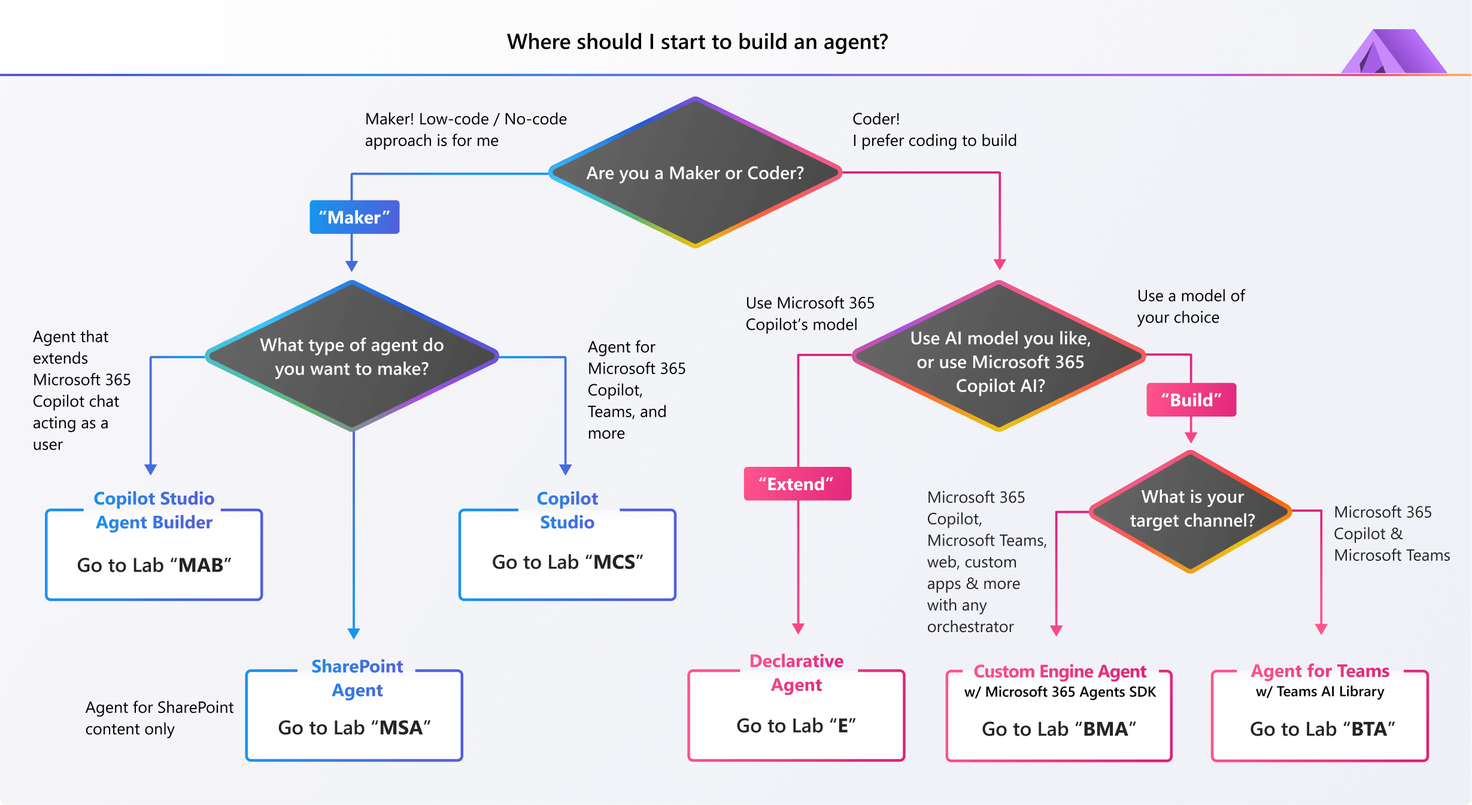
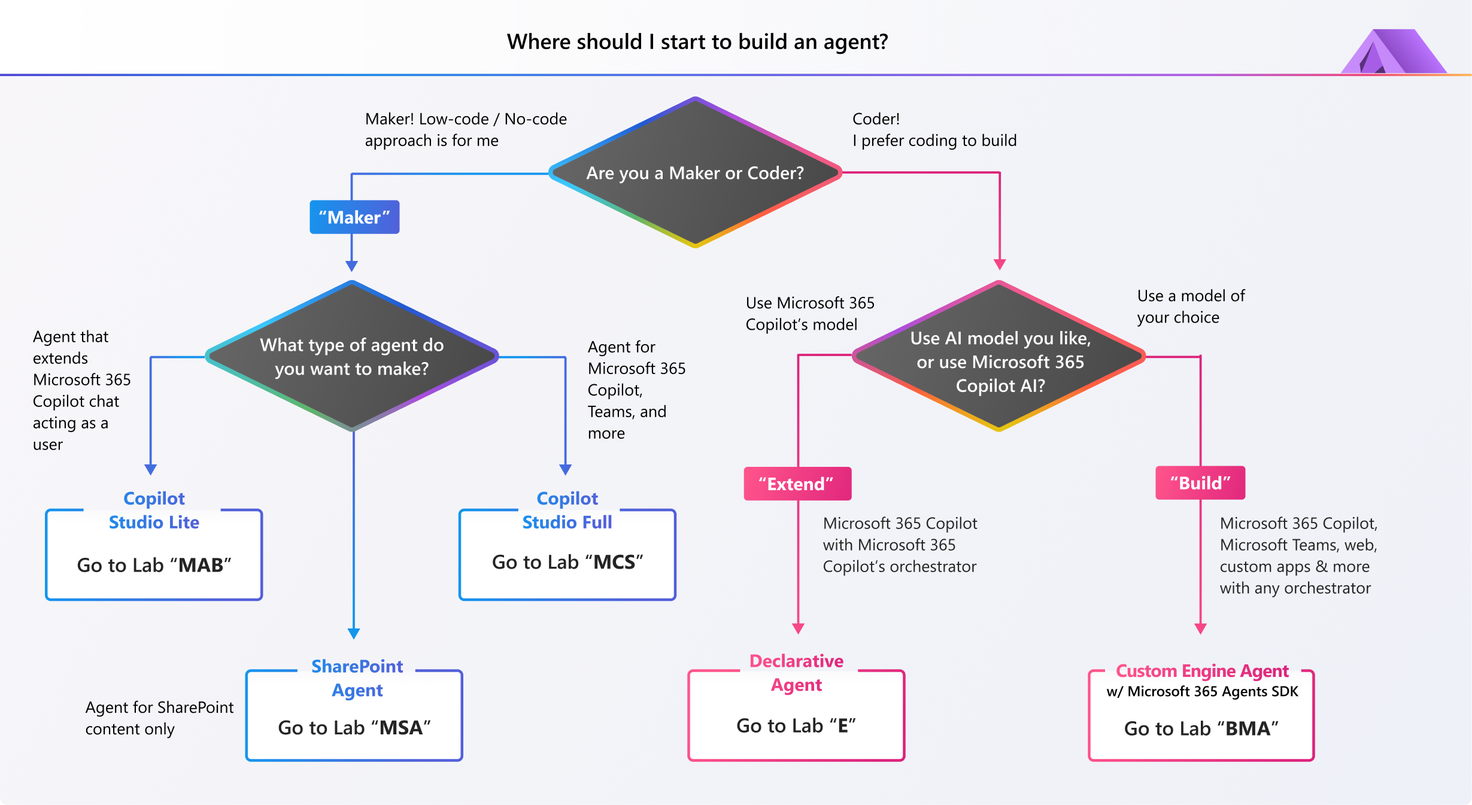
Removed BTA and updated name of Copilot Studio Lite

diff --git a/docs/pages/make/agent-builder/01-first-agent.md b/docs/pages/make/agent-builder/01-first-agent.md
@@ -2,12 +2,12 @@
 
 ---8<--- "mab-labs-prelude.md"
 
-In this lab, you'll create a simple declarative agent using Copilot Studio agent builder. Your agent is designed to help users to maintain and improve a home garden. The knowledge base of the agent is based on a set of documents stored in SharePoint Online and on the public web content. The agent can also engage the user in a nice game to guess the name of plants or flowers based on a set of clues.
+In this lab, you'll create a simple declarative agent using Copilot Studio Lite. Your agent is designed to help users to maintain and improve a home garden. The knowledge base of the agent is based on a set of documents stored in SharePoint Online and on the public web content. The agent can also engage the user in a nice game to guess the name of plants or flowers based on a set of clues.
 
 In this lab you will learn:
 
 - What is a declarative agent for Microsoft 365 Copilot
-- Make a declarative agent using Copilot Studio agent builder
+- Make a declarative agent using Copilot Studio Lite
 - Customise the agent to create a game using specific instructions 
 - Configure the agent to rely on a set of documents stored in SharePoint Online
 - Enable the agent to generate images
@@ -21,7 +21,7 @@ They function as subject matter experts in a specific area or business need, all
 
 Welcome on board to making your own declarative agent ☺! Let's dive in and make your Copilot work magic!
 
-In this lab you will start out building a declarative agent using Copilot Studio agent builder and providing a sample set of instructions. This is to help you get started with something. 
+In this lab you will start out building a declarative agent using Copilot Studio Lite and providing a sample set of instructions. This is to help you get started with something. 
 
 Next, you will modify your agent to be focused on a guess the plant or flower name game. 
 
@@ -33,22 +33,22 @@ Lastly you will share the agent with other people in your organization.
 
 ## Exercise 1: Creating the Declarative agent 
 
-Let's get started! 💪🏼 Let's make the agent from scratch using Copilot Studio agent builder.
+Let's get started! 💪🏼 Let's make the agent from scratch using Copilot Studio Lite.
 
 ### Step 1: Describe your agent
 
-To create a declarative agent with Copilot Studio agent builder, open the [Microsoft 365 Copilot chat home page](https://www.microsoft365.com/copilot){target=_blank} and select **Create an agent** in the right side panel, where there is the list of available agents, like illustrated in the following picture.
+To create a declarative agent with Copilot Studio Lite, open the [Microsoft 365 Copilot chat home page](https://www.microsoft365.com/copilot){target=_blank} and select **Create an agent** in the right side panel, where there is the list of available agents, like illustrated in the following picture.
 
 ![Microsoft 365 Copilot Chat with the 'Create an agent' command highlighted.](../../../assets/images/make/agent-builder-01/create-agent-01.png)
 
-The Copilot Studio agent builder pops up and you can start defining the custom agent. You can choose a template to start from, or you can simply *describe* the agent by providing a description in natural language. You can also choose to manually configure the agent, selecting the **Configure** option, but you will get there later. Let's provide the following initial description:
+The Copilot Studio Lite pops up and you can start defining the custom agent. You can choose a template to start from, or you can simply *describe* the agent by providing a description in natural language. You can also choose to manually configure the agent, selecting the **Configure** option, but you will get there later. Let's provide the following initial description:
 
 ```txt
 You are an expert gardener and you help users to maintain and improve their home garden
 providing detailed instructions and advice about the best practices for home gardening.
 ```
 
-![The user experience of the Copilot Studio agent builder. On the lower left side there is a textbox that you can use to provide instructions to the agent builder, while on the right side there is a preview of the agent.](../../../assets/images/make/agent-builder-01/create-agent-02.png)
+![The user experience of the Copilot Studio Lite. On the lower left side there is a textbox that you can use to provide instructions to the agent builder, while on the right side there is a preview of the agent.](../../../assets/images/make/agent-builder-01/create-agent-02.png)
 
 Once you have provided the instructions, the agent builder will ask you about the name for the new agent. Provide the name: *Gardener*. While you interact with the agent builder, on the right side of the dialog you can see there is a preview of the agent itself, including some suggested conversation starters. If the agent builder asks you about refining instructions further, provide the following sentence.
 
@@ -56,7 +56,7 @@ Once you have provided the instructions, the agent builder will ask you about th
 Suggest ways to keep plants and flowers shining and gorgeous
 ```
 
-![The user experience of the Copilot Studio agent builder. On the lower left side there is the interaction with the agent builder, while on the right side there is a preview of the agent.](../../../assets/images/make/agent-builder-01/create-agent-03.png)
+![The user experience of the Copilot Studio Lite. On the lower left side there is the interaction with the agent builder, while on the right side there is a preview of the agent.](../../../assets/images/make/agent-builder-01/create-agent-03.png)
 
 Keep on interacting with the agent builder until it does have all the information needed to create the agent. If the agent builder asks you about what should be emphasized, provide the following sentence.
 
@@ -72,9 +72,9 @@ Use a professional, yet friendly, tone.
 
 Lastly, say that you don't have any further refinements and select the **Create** button in the upper right corner of the screen. 
 
-![The user experience of the Copilot Studio agent builder with the 'Create' button highlighted.](../../../assets/images/make/agent-builder-01/create-agent-04.png)
+![The user experience of the Copilot Studio Lite with the 'Create' button highlighted.](../../../assets/images/make/agent-builder-01/create-agent-04.png)
 
-The Copilot Studio agent builder will create a new agent for you, based on the provided instructions. 
+The Copilot Studio Lite will create a new agent for you, based on the provided instructions. 
 
 <cc-end-step lab="mab1" exercise="1" step="1" />
 
@@ -86,7 +86,7 @@ Once the agent is ready, you will see a popup dialog with a link to the agent an
 
 Select the **Go to agent** button. You will be brought to the actual user experience of the new agent that you've just made.
 
-![The user experience of the 'Gardener' agent that you have just created. There is the name of the agent at the top of the screen, followed by a set of conversation starters generated by the Copilot Studio agent builder, and then the textbox to provide a new prompt to the agent.](../../../assets/images/make/agent-builder-01/create-agent-06.png)
+![The user experience of the 'Gardener' agent that you have just created. There is the name of the agent at the top of the screen, followed by a set of conversation starters generated by the Copilot Studio Lite, and then the textbox to provide a new prompt to the agent.](../../../assets/images/make/agent-builder-01/create-agent-06.png)
 
 To start interacting with the agent, click on the first suggested prompt and observe the response from the agent. Your agent is now ready. Congrats!
 
@@ -99,13 +99,13 @@ To start interacting with the agent, click on the first suggested prompt and obs
 It is now time to slightly customize the agent. You are going to add a custom icon and define the rules of the game to guess plants or flowers names.
 
 Start over with a **New chat** selecting the corresponding button in the upper right corner of the Microsoft 365 Copilot Chat user interface. Select the **Create an agent** command in the right side of the screen, like you did before, while making your first agent.
-The same dialog you used before to make your first agent will show up. This time, select the name of the agent **My Copilot Agent** dropdown just beside the **Copilot Studio** logo in the upper left side of the dialog. From there, select **View all agents** to see the whole list of agents that you created with Copilot Studio agent builder.
+The same dialog you used before to make your first agent will show up. This time, select the name of the agent **My Copilot Agent** dropdown just beside the **Copilot Studio** logo in the upper left side of the dialog. From there, select **View all agents** to see the whole list of agents that you created with Copilot Studio Lite.
 
-![The user experience of Copilot Studio agent builder when editing an already existing agent. There is a command in the upper left side of the dialog to view all the agents that you already defined.](../../../assets/images/make/agent-builder-01/update-agent-01.png)
+![The user experience of Copilot Studio Lite when editing an already existing agent. There is a command in the upper left side of the dialog to view all the agents that you already defined.](../../../assets/images/make/agent-builder-01/update-agent-01.png)
 
 A new dialog with the whole list of agents that you designed will show up.
 
-![The user experience of Copilot Studio agent builder when showing the list of agents. There is the 'Gardener' agent highlighted with a list of action to edit, share, download, and delete the agent.](../../../assets/images/make/agent-builder-01/update-agent-02.png)
+![The user experience of Copilot Studio Lite when showing the list of agents. There is the 'Gardener' agent highlighted with a list of action to edit, share, download, and delete the agent.](../../../assets/images/make/agent-builder-01/update-agent-02.png)
 
 For each agent, you have commands to edit, share, download, and delete it.
 
@@ -235,12 +235,12 @@ At the end of the sharing process you will see a dialog with a URL that you can 
 
 ---8<--- "mab-congratulations.md"
 
-Great job on making your agent 🎉 ! This is the end of the **Copilot Studio agent builder** path! Did you enjoy making the Gardener agent? Let us know about your experience and feedback. 💜
+Great job on making your agent 🎉 ! This is the end of the **Copilot Studio Lite** path! Did you enjoy making the Gardener agent? Let us know about your experience and feedback. 💜
 
 ## Resources
 - [Declarative agents](https://learn.microsoft.com/en-us/microsoft-365-copilot/extensibility/overview-declarative-copilot){target=_blank}
-- [Build agents with Copilot Studio agent builder](https://learn.microsoft.com/en-us/microsoft-365-copilot/extensibility/copilot-studio-agent-builder-build){target=_blank}
-- [Publish and manage Copilot Studio agent builder agents](https://learn.microsoft.com/en-us/microsoft-365-copilot/extensibility/copilot-studio-agent-builder-publish){target=_blank}
+- [Build agents with Copilot Studio Lite](https://learn.microsoft.com/en-us/microsoft-365-copilot/extensibility/copilot-studio-agent-builder-build){target=_blank}
+- [Publish and manage Copilot Studio Lite agents](https://learn.microsoft.com/en-us/microsoft-365-copilot/extensibility/copilot-studio-agent-builder-publish){target=_blank}
 
 <img src="https://m365-visitor-stats.azurewebsites.net/copilot-camp/make/agent-builder/01-first-agent" />
 

diff --git a/docs/includes/m-labs-branches.md b/docs/includes/m-labs-branches.md
@@ -4,7 +4,7 @@
             <h3>
       <svg xmlns="http://www.w3.org/2000/svg" width="20" height="20" viewBox="0 0 20 20" fill="none">
         <path d="M12.9457 5.63353C12.8823 5.55145 12.8135 5.47321 12.7399 5.39932C12.4656 5.12421 12.1308 4.91696 11.7621 4.79412L10.5516 4.40101C10.4583 4.36813 10.3776 4.30713 10.3204 4.22644C10.2632 4.14575 10.2325 4.04932 10.2325 3.95047C10.2325 3.85161 10.2632 3.75519 10.3204 3.67449C10.3776 3.5938 10.4583 3.5328 10.5516 3.49991L11.7621 3.10681C12.1256 2.98139 12.4552 2.77364 12.7251 2.49981C12.9875 2.23349 13.1865 1.91168 13.3075 1.55831L13.3176 1.52836L13.7109 0.318827C13.7439 0.2256 13.8049 0.144867 13.8856 0.0877733C13.9664 0.0306667 14.0629 0 14.1619 0C14.2608 0 14.3572 0.0306667 14.438 0.0877733C14.5188 0.144867 14.5799 0.2256 14.6128 0.318827L15.0061 1.52836C15.1285 1.89608 15.3349 2.23023 15.6092 2.50424C15.8833 2.77825 16.2177 2.98457 16.5857 3.10681L17.7963 3.49991L17.8205 3.50596C17.9137 3.53885 17.9945 3.59984 18.0517 3.68053C18.1088 3.76124 18.1396 3.85765 18.1396 3.95651C18.1396 4.05537 18.1088 4.15179 18.0517 4.23248C17.9945 4.31319 17.9137 4.37417 17.8205 4.40707L16.61 4.80016C16.242 4.9224 15.9076 5.12873 15.6333 5.40273C15.3592 5.67675 15.1527 6.01089 15.0304 6.37861L14.6369 7.58816C14.6333 7.59821 14.6295 7.60812 14.6253 7.61787C14.5907 7.69852 14.5343 7.76827 14.4623 7.81921C14.3815 7.87631 14.2849 7.90697 14.186 7.90697C14.0871 7.90697 13.9907 7.87631 13.9099 7.81921C13.8291 7.76211 13.768 7.68139 13.7352 7.58816L13.3417 6.37861C13.2528 6.10885 13.1187 5.857 12.9457 5.63353ZM19.8183 8.82964L19.1775 8.62153C18.9827 8.55681 18.8056 8.44759 18.6604 8.30252C18.5152 8.15745 18.4059 7.98056 18.3412 7.78588L18.1329 7.14553C18.1155 7.09617 18.0831 7.05344 18.0404 7.02321C17.9976 6.99297 17.9465 6.97675 17.8941 6.97675C17.8417 6.97675 17.7907 6.99297 17.748 7.02321C17.7052 7.05344 17.6729 7.09617 17.6555 7.14553L17.4472 7.78588C17.3837 7.97919 17.2764 8.15521 17.1335 8.30017C16.9907 8.44513 16.8161 8.55512 16.6237 8.62153L15.9829 8.82964C15.9335 8.84705 15.8907 8.87935 15.8604 8.92207C15.8301 8.96479 15.814 9.01583 15.814 9.06817C15.814 9.12051 15.8301 9.17155 15.8604 9.21427C15.8907 9.25699 15.9335 9.28928 15.9829 9.30669L16.6237 9.5148C16.6941 9.53827 16.7623 9.56755 16.8273 9.60224L16.8287 9.60929C16.9431 9.67036 17.0481 9.74813 17.1404 9.8404C17.2859 9.98575 17.3952 10.163 17.4599 10.3581L17.6683 10.9987C17.6857 11.048 17.718 11.0907 17.7608 11.1209C17.8035 11.1512 17.8545 11.1675 17.9069 11.1675C17.9592 11.1675 18.0103 11.1512 18.0531 11.1209C18.0905 11.0944 18.12 11.0583 18.1384 11.0165V11.0124C18.1411 11.0064 18.1435 11.0003 18.1457 10.994L18.354 10.3537C18.4187 10.159 18.528 9.98208 18.6732 9.83701C18.8184 9.69195 18.9955 9.58272 19.1903 9.51801L19.8311 9.30989C19.8805 9.29249 19.9232 9.26019 19.9535 9.21747C19.9837 9.17475 20 9.12371 20 9.07136C20 9.01903 19.9837 8.96799 19.9535 8.92527C19.9232 8.88255 19.8805 8.85025 19.8311 8.83284L19.8183 8.82964ZM9.30232 1.39535C10.2764 1.39535 11.2155 1.54505 12.0977 1.82272C12.0856 1.83559 12.0731 1.84824 12.0603 1.86068C11.892 2.03196 11.6868 2.16243 11.4603 2.24207L10.2957 2.61816C9.97013 2.57853 9.63867 2.55813 9.30232 2.55813C4.80699 2.55813 1.16279 6.20233 1.16279 10.6977C1.16279 12.1804 1.55873 13.5689 2.25025 14.7651C2.32903 14.9013 2.34919 15.0637 2.30615 15.2151L1.32177 18.6767L4.78253 17.6925C4.93397 17.6495 5.09641 17.6696 5.23269 17.7485C6.42939 18.4408 7.81868 18.8372 9.30232 18.8372C13.3677 18.8372 16.7371 15.8567 17.3443 11.9616C17.4523 12.0179 17.5687 12.0573 17.6892 12.0784C17.862 12.1084 18.0393 12.0997 18.2084 12.0531C18.3209 12.022 18.4279 11.9745 18.526 11.9125C17.9308 16.476 14.0281 20 9.30232 20C7.69784 20 6.18675 19.5933 4.86813 18.8771L1.03763 19.9664C0.42428 20.1408 -0.142333 19.5741 0.03208 18.9608L1.12163 15.1295C0.406187 13.8113 0 12.3012 0 10.6977C0 5.56015 4.16479 1.39535 9.30232 1.39535Z" fill="#599FFF"></svg>
-      Copilot Agent Builder
+      Copilot Studio Lite
     </h3>
         </div>      
         <div class="lab-branch-detail body">
@@ -23,7 +23,7 @@
         <div class="lab-branch-detail">
             <h3>
              <svg xmlns="http://www.w3.org/2000/svg" width="20" height="20" viewBox="0 0 20 20" fill="none">
-        <path fill-rule="evenodd" clip-rule="evenodd" d="M15.9996 2.15641V1.85844C15.9996 0.80035 15.0679 -0.0157094 14.019 0.123699L6.52187 1.12017C5.65214 1.23577 5.00244 1.97753 5.00244 2.85491V7.29306L1.49715 7.80037C0.636441 7.92493 -0.00219722 8.66265 -0.00219721 9.53232L-0.00244141 15.3867L-0.00219726 15.4161L-0.00219725 15.4677H-0.000591107C0.038421 16.32 0.690036 17.0255 1.54544 17.1249L4.40985 17.458C4.74849 17.4974 5.00391 17.7842 5.00391 18.1251H5.01045C5.10341 19.1042 5.99835 19.829 6.99454 19.6899L14.4881 18.6434C15.3527 18.5226 15.9961 17.7832 15.9961 16.9102V13.3276C15.9961 12.948 16.2798 12.6282 16.6567 12.583L18.4517 12.3676C19.3312 12.262 19.9932 11.5159 19.9932 10.63V4.87651C19.9932 4.01056 19.3599 3.27483 18.5036 3.14599L16.6061 2.86049C16.2577 2.80807 15.9996 2.50873 15.9996 2.15641ZM6.52186 7.0186L12.6781 6.20033L12.749 6.18877L12.7493 6.19086L14.3484 5.97831C14.7212 5.92877 14.9996 5.61087 14.9996 5.23485V1.85844C14.9996 1.40497 14.6003 1.05523 14.1508 1.11498L6.65363 2.11145C6.28088 2.16099 6.00244 2.47889 6.00244 2.85491V7.14834L6.08106 7.13696C6.21942 7.07954 6.36716 7.03916 6.52186 7.0186ZM14.4802 6.96959L12.8245 7.18966L12.4752 7.24664L12.4749 7.24461L10.0087 7.58216V7.57895L9.60027 7.63806L9.1197 7.70384L9.1202 7.70754L6.37563 8.10475C6.15068 8.23556 6.00244 8.47898 6.00244 8.75334V8.82132C6.00244 9.19963 6.28419 9.51872 6.65959 9.56555L9.53217 9.92395C9.69934 9.94481 9.85823 9.98975 10.0055 10.055L10.0055 8.59192L11.0087 8.45461V11.6983C11.0087 12.568 10.3701 13.3057 9.50938 13.4303L8.04609 13.642L8.04529 13.6366L1.64037 14.5691C1.2715 14.6225 0.997803 14.9387 0.997803 15.3114V15.4059C1.00724 15.7781 1.28918 16.0884 1.66094 16.1316L4.52534 16.4647C4.69381 16.4843 4.854 16.5285 5.0025 16.5934V16.5038H5.00391V15.0911L6.00391 14.9451V18.0032C6.03018 18.4357 6.42062 18.7603 6.85623 18.6995L14.3498 17.653C14.7204 17.6012 14.9961 17.2843 14.9961 16.9102V13.3276C14.9961 12.4418 15.658 11.6956 16.5376 11.5901L18.3325 11.3747C18.7095 11.3295 18.9932 11.0097 18.9932 10.63V4.87651C18.9932 4.50539 18.7218 4.19007 18.3548 4.13486L16.4573 3.84936C16.2956 3.82504 16.1421 3.77861 15.9996 3.71343V5.23485C15.9996 6.11223 15.3499 6.85399 14.4802 6.96959ZM1.64038 8.79006L5.00244 8.30348V8.89686H5.00405C5.0403 9.7462 5.68496 10.4517 6.53578 10.5579L9.40837 10.9163C9.7495 10.9588 10.0055 11.2488 10.0055 11.5926H10.0087V11.6983C10.0087 12.071 9.73501 12.3872 9.36614 12.4406L1.49714 13.5794C1.32009 13.6051 1.15243 13.6566 0.997803 13.73V9.53232C0.997803 9.15961 1.2715 8.84344 1.64038 8.79006Z" fill="#599FFF"></svg> Microsoft Copilot Studio
+        <path fill-rule="evenodd" clip-rule="evenodd" d="M15.9996 2.15641V1.85844C15.9996 0.80035 15.0679 -0.0157094 14.019 0.123699L6.52187 1.12017C5.65214 1.23577 5.00244 1.97753 5.00244 2.85491V7.29306L1.49715 7.80037C0.636441 7.92493 -0.00219722 8.66265 -0.00219721 9.53232L-0.00244141 15.3867L-0.00219726 15.4161L-0.00219725 15.4677H-0.000591107C0.038421 16.32 0.690036 17.0255 1.54544 17.1249L4.40985 17.458C4.74849 17.4974 5.00391 17.7842 5.00391 18.1251H5.01045C5.10341 19.1042 5.99835 19.829 6.99454 19.6899L14.4881 18.6434C15.3527 18.5226 15.9961 17.7832 15.9961 16.9102V13.3276C15.9961 12.948 16.2798 12.6282 16.6567 12.583L18.4517 12.3676C19.3312 12.262 19.9932 11.5159 19.9932 10.63V4.87651C19.9932 4.01056 19.3599 3.27483 18.5036 3.14599L16.6061 2.86049C16.2577 2.80807 15.9996 2.50873 15.9996 2.15641ZM6.52186 7.0186L12.6781 6.20033L12.749 6.18877L12.7493 6.19086L14.3484 5.97831C14.7212 5.92877 14.9996 5.61087 14.9996 5.23485V1.85844C14.9996 1.40497 14.6003 1.05523 14.1508 1.11498L6.65363 2.11145C6.28088 2.16099 6.00244 2.47889 6.00244 2.85491V7.14834L6.08106 7.13696C6.21942 7.07954 6.36716 7.03916 6.52186 7.0186ZM14.4802 6.96959L12.8245 7.18966L12.4752 7.24664L12.4749 7.24461L10.0087 7.58216V7.57895L9.60027 7.63806L9.1197 7.70384L9.1202 7.70754L6.37563 8.10475C6.15068 8.23556 6.00244 8.47898 6.00244 8.75334V8.82132C6.00244 9.19963 6.28419 9.51872 6.65959 9.56555L9.53217 9.92395C9.69934 9.94481 9.85823 9.98975 10.0055 10.055L10.0055 8.59192L11.0087 8.45461V11.6983C11.0087 12.568 10.3701 13.3057 9.50938 13.4303L8.04609 13.642L8.04529 13.6366L1.64037 14.5691C1.2715 14.6225 0.997803 14.9387 0.997803 15.3114V15.4059C1.00724 15.7781 1.28918 16.0884 1.66094 16.1316L4.52534 16.4647C4.69381 16.4843 4.854 16.5285 5.0025 16.5934V16.5038H5.00391V15.0911L6.00391 14.9451V18.0032C6.03018 18.4357 6.42062 18.7603 6.85623 18.6995L14.3498 17.653C14.7204 17.6012 14.9961 17.2843 14.9961 16.9102V13.3276C14.9961 12.4418 15.658 11.6956 16.5376 11.5901L18.3325 11.3747C18.7095 11.3295 18.9932 11.0097 18.9932 10.63V4.87651C18.9932 4.50539 18.7218 4.19007 18.3548 4.13486L16.4573 3.84936C16.2956 3.82504 16.1421 3.77861 15.9996 3.71343V5.23485C15.9996 6.11223 15.3499 6.85399 14.4802 6.96959ZM1.64038 8.79006L5.00244 8.30348V8.89686H5.00405C5.0403 9.7462 5.68496 10.4517 6.53578 10.5579L9.40837 10.9163C9.7495 10.9588 10.0055 11.2488 10.0055 11.5926H10.0087V11.6983C10.0087 12.071 9.73501 12.3872 9.36614 12.4406L1.49714 13.5794C1.32009 13.6051 1.15243 13.6566 0.997803 13.73V9.53232C0.997803 9.15961 1.2715 8.84344 1.64038 8.79006Z" fill="#599FFF"></svg> Copilot Studio Full
             </h3>
         </div>      
         <div class="lab-branch-detail body">

diff --git a/docs/includes/main-links.md b/docs/includes/main-links.md
@@ -6,9 +6,9 @@
     <h3 class="table-heading">
       <svg xmlns="http://www.w3.org/2000/svg" width="20" height="20" viewBox="0 0 20 20" fill="none">
         <path d="M12.9457 5.63353C12.8823 5.55145 12.8135 5.47321 12.7399 5.39932C12.4656 5.12421 12.1308 4.91696 11.7621 4.79412L10.5516 4.40101C10.4583 4.36813 10.3776 4.30713 10.3204 4.22644C10.2632 4.14575 10.2325 4.04932 10.2325 3.95047C10.2325 3.85161 10.2632 3.75519 10.3204 3.67449C10.3776 3.5938 10.4583 3.5328 10.5516 3.49991L11.7621 3.10681C12.1256 2.98139 12.4552 2.77364 12.7251 2.49981C12.9875 2.23349 13.1865 1.91168 13.3075 1.55831L13.3176 1.52836L13.7109 0.318827C13.7439 0.2256 13.8049 0.144867 13.8856 0.0877733C13.9664 0.0306667 14.0629 0 14.1619 0C14.2608 0 14.3572 0.0306667 14.438 0.0877733C14.5188 0.144867 14.5799 0.2256 14.6128 0.318827L15.0061 1.52836C15.1285 1.89608 15.3349 2.23023 15.6092 2.50424C15.8833 2.77825 16.2177 2.98457 16.5857 3.10681L17.7963 3.49991L17.8205 3.50596C17.9137 3.53885 17.9945 3.59984 18.0517 3.68053C18.1088 3.76124 18.1396 3.85765 18.1396 3.95651C18.1396 4.05537 18.1088 4.15179 18.0517 4.23248C17.9945 4.31319 17.9137 4.37417 17.8205 4.40707L16.61 4.80016C16.242 4.9224 15.9076 5.12873 15.6333 5.40273C15.3592 5.67675 15.1527 6.01089 15.0304 6.37861L14.6369 7.58816C14.6333 7.59821 14.6295 7.60812 14.6253 7.61787C14.5907 7.69852 14.5343 7.76827 14.4623 7.81921C14.3815 7.87631 14.2849 7.90697 14.186 7.90697C14.0871 7.90697 13.9907 7.87631 13.9099 7.81921C13.8291 7.76211 13.768 7.68139 13.7352 7.58816L13.3417 6.37861C13.2528 6.10885 13.1187 5.857 12.9457 5.63353ZM19.8183 8.82964L19.1775 8.62153C18.9827 8.55681 18.8056 8.44759 18.6604 8.30252C18.5152 8.15745 18.4059 7.98056 18.3412 7.78588L18.1329 7.14553C18.1155 7.09617 18.0831 7.05344 18.0404 7.02321C17.9976 6.99297 17.9465 6.97675 17.8941 6.97675C17.8417 6.97675 17.7907 6.99297 17.748 7.02321C17.7052 7.05344 17.6729 7.09617 17.6555 7.14553L17.4472 7.78588C17.3837 7.97919 17.2764 8.15521 17.1335 8.30017C16.9907 8.44513 16.8161 8.55512 16.6237 8.62153L15.9829 8.82964C15.9335 8.84705 15.8907 8.87935 15.8604 8.92207C15.8301 8.96479 15.814 9.01583 15.814 9.06817C15.814 9.12051 15.8301 9.17155 15.8604 9.21427C15.8907 9.25699 15.9335 9.28928 15.9829 9.30669L16.6237 9.5148C16.6941 9.53827 16.7623 9.56755 16.8273 9.60224L16.8287 9.60929C16.9431 9.67036 17.0481 9.74813 17.1404 9.8404C17.2859 9.98575 17.3952 10.163 17.4599 10.3581L17.6683 10.9987C17.6857 11.048 17.718 11.0907 17.7608 11.1209C17.8035 11.1512 17.8545 11.1675 17.9069 11.1675C17.9592 11.1675 18.0103 11.1512 18.0531 11.1209C18.0905 11.0944 18.12 11.0583 18.1384 11.0165V11.0124C18.1411 11.0064 18.1435 11.0003 18.1457 10.994L18.354 10.3537C18.4187 10.159 18.528 9.98208 18.6732 9.83701C18.8184 9.69195 18.9955 9.58272 19.1903 9.51801L19.8311 9.30989C19.8805 9.29249 19.9232 9.26019 19.9535 9.21747C19.9837 9.17475 20 9.12371 20 9.07136C20 9.01903 19.9837 8.96799 19.9535 8.92527C19.9232 8.88255 19.8805 8.85025 19.8311 8.83284L19.8183 8.82964ZM9.30232 1.39535C10.2764 1.39535 11.2155 1.54505 12.0977 1.82272C12.0856 1.83559 12.0731 1.84824 12.0603 1.86068C11.892 2.03196 11.6868 2.16243 11.4603 2.24207L10.2957 2.61816C9.97013 2.57853 9.63867 2.55813 9.30232 2.55813C4.80699 2.55813 1.16279 6.20233 1.16279 10.6977C1.16279 12.1804 1.55873 13.5689 2.25025 14.7651C2.32903 14.9013 2.34919 15.0637 2.30615 15.2151L1.32177 18.6767L4.78253 17.6925C4.93397 17.6495 5.09641 17.6696 5.23269 17.7485C6.42939 18.4408 7.81868 18.8372 9.30232 18.8372C13.3677 18.8372 16.7371 15.8567 17.3443 11.9616C17.4523 12.0179 17.5687 12.0573 17.6892 12.0784C17.862 12.1084 18.0393 12.0997 18.2084 12.0531C18.3209 12.022 18.4279 11.9745 18.526 11.9125C17.9308 16.476 14.0281 20 9.30232 20C7.69784 20 6.18675 19.5933 4.86813 18.8771L1.03763 19.9664C0.42428 20.1408 -0.142333 19.5741 0.03208 18.9608L1.12163 15.1295C0.406187 13.8113 0 12.3012 0 10.6977C0 5.56015 4.16479 1.39535 9.30232 1.39535Z" fill="#599FFF"></svg>
-      Copilot Agent Builder
+      Copilot Studio Lite
     </h3>
-    <p>Build a Declarative agent with Copilot Studio agent builder</p>
+    <p>Build a Declarative agent with Copilot Studio Lite</p>
     <a href="https://microsoft.github.io/copilot-camp/pages/make/agent-builder/">Get Started</a>
   </div> -->
 

diff --git a/docs/includes/ja/m-labs-branches.md b/docs/includes/ja/m-labs-branches.md
@@ -4,7 +4,7 @@
             <h3>
       <svg xmlns="http://www.w3.org/2000/svg" width="20" height="20" viewBox="0 0 20 20" fill="none">
         <path d="M12.9457 5.63353C12.8823 5.55145 12.8135 5.47321 12.7399 5.39932C12.4656 5.12421 12.1308 4.91696 11.7621 4.79412L10.5516 4.40101C10.4583 4.36813 10.3776 4.30713 10.3204 4.22644C10.2632 4.14575 10.2325 4.04932 10.2325 3.95047C10.2325 3.85161 10.2632 3.75519 10.3204 3.67449C10.3776 3.5938 10.4583 3.5328 10.5516 3.49991L11.7621 3.10681C12.1256 2.98139 12.4552 2.77364 12.7251 2.49981C12.9875 2.23349 13.1865 1.91168 13.3075 1.55831L13.3176 1.52836L13.7109 0.318827C13.7439 0.2256 13.8049 0.144867 13.8856 0.0877733C13.9664 0.0306667 14.0629 0 14.1619 0C14.2608 0 14.3572 0.0306667 14.438 0.0877733C14.5188 0.144867 14.5799 0.2256 14.6128 0.318827L15.0061 1.52836C15.1285 1.89608 15.3349 2.23023 15.6092 2.50424C15.8833 2.77825 16.2177 2.98457 16.5857 3.10681L17.7963 3.49991L17.8205 3.50596C17.9137 3.53885 17.9945 3.59984 18.0517 3.68053C18.1088 3.76124 18.1396 3.85765 18.1396 3.95651C18.1396 4.05537 18.1088 4.15179 18.0517 4.23248C17.9945 4.31319 17.9137 4.37417 17.8205 4.40707L16.61 4.80016C16.242 4.9224 15.9076 5.12873 15.6333 5.40273C15.3592 5.67675 15.1527 6.01089 15.0304 6.37861L14.6369 7.58816C14.6333 7.59821 14.6295 7.60812 14.6253 7.61787C14.5907 7.69852 14.5343 7.76827 14.4623 7.81921C14.3815 7.87631 14.2849 7.90697 14.186 7.90697C14.0871 7.90697 13.9907 7.87631 13.9099 7.81921C13.8291 7.76211 13.768 7.68139 13.7352 7.58816L13.3417 6.37861C13.2528 6.10885 13.1187 5.857 12.9457 5.63353ZM19.8183 8.82964L19.1775 8.62153C18.9827 8.55681 18.8056 8.44759 18.6604 8.30252C18.5152 8.15745 18.4059 7.98056 18.3412 7.78588L18.1329 7.14553C18.1155 7.09617 18.0831 7.05344 18.0404 7.02321C17.9976 6.99297 17.9465 6.97675 17.8941 6.97675C17.8417 6.97675 17.7907 6.99297 17.748 7.02321C17.7052 7.05344 17.6729 7.09617 17.6555 7.14553L17.4472 7.78588C17.3837 7.97919 17.2764 8.15521 17.1335 8.30017C16.9907 8.44513 16.8161 8.55512 16.6237 8.62153L15.9829 8.82964C15.9335 8.84705 15.8907 8.87935 15.8604 8.92207C15.8301 8.96479 15.814 9.01583 15.814 9.06817C15.814 9.12051 15.8301 9.17155 15.8604 9.21427C15.8907 9.25699 15.9335 9.28928 15.9829 9.30669L16.6237 9.5148C16.6941 9.53827 16.7623 9.56755 16.8273 9.60224L16.8287 9.60929C16.9431 9.67036 17.0481 9.74813 17.1404 9.8404C17.2859 9.98575 17.3952 10.163 17.4599 10.3581L17.6683 10.9987C17.6857 11.048 17.718 11.0907 17.7608 11.1209C17.8035 11.1512 17.8545 11.1675 17.9069 11.1675C17.9592 11.1675 18.0103 11.1512 18.0531 11.1209C18.0905 11.0944 18.12 11.0583 18.1384 11.0165V11.0124C18.1411 11.0064 18.1435 11.0003 18.1457 10.994L18.354 10.3537C18.4187 10.159 18.528 9.98208 18.6732 9.83701C18.8184 9.69195 18.9955 9.58272 19.1903 9.51801L19.8311 9.30989C19.8805 9.29249 19.9232 9.26019 19.9535 9.21747C19.9837 9.17475 20 9.12371 20 9.07136C20 9.01903 19.9837 8.96799 19.9535 8.92527C19.9232 8.88255 19.8805 8.85025 19.8311 8.83284L19.8183 8.82964ZM9.30232 1.39535C10.2764 1.39535 11.2155 1.54505 12.0977 1.82272C12.0856 1.83559 12.0731 1.84824 12.0603 1.86068C11.892 2.03196 11.6868 2.16243 11.4603 2.24207L10.2957 2.61816C9.97013 2.57853 9.63867 2.55813 9.30232 2.55813C4.80699 2.55813 1.16279 6.20233 1.16279 10.6977C1.16279 12.1804 1.55873 13.5689 2.25025 14.7651C2.32903 14.9013 2.34919 15.0637 2.30615 15.2151L1.32177 18.6767L4.78253 17.6925C4.93397 17.6495 5.09641 17.6696 5.23269 17.7485C6.42939 18.4408 7.81868 18.8372 9.30232 18.8372C13.3677 18.8372 16.7371 15.8567 17.3443 11.9616C17.4523 12.0179 17.5687 12.0573 17.6892 12.0784C17.862 12.1084 18.0393 12.0997 18.2084 12.0531C18.3209 12.022 18.4279 11.9745 18.526 11.9125C17.9308 16.476 14.0281 20 9.30232 20C7.69784 20 6.18675 19.5933 4.86813 18.8771L1.03763 19.9664C0.42428 20.1408 -0.142333 19.5741 0.03208 18.9608L1.12163 15.1295C0.406187 13.8113 0 12.3012 0 10.6977C0 5.56015 4.16479 1.39535 9.30232 1.39535Z" fill="#599FFF"></svg>
-      Copilot Agent Builder
+      Copilot Studio Lite
     </h3>
         </div>      
         <div class="lab-branch-detail body">

diff --git a/docs/pages/make/agent-builder/index.md b/docs/pages/make/agent-builder/index.md
@@ -1,10 +1,10 @@
-# Lab MAB - Making agents with Copilot Studio agent builder
+# Lab MAB - Making agents with Copilot Studio Lite
 
-This is the easiest way of making a personal agent for Microsoft 365 Copilot. In fact, it is integrated with the native UI of Microsoft 365 Copilot Chat and Microsoft 365 Copilot. You can start from a set of Microsoft provided templates, or you can start from scratch. You can define the agent simply describing in natural language what you are looking for and relying on Copilot Studio agent builder capability to understand natural language. It will create an agent for you, based on your prompt. Or you can configure the agent using a configuration page. By default, the agent is for personal use only. However, you can share it with specific people in your organization, or even with all the users in your organization, if needed.
+This is the easiest way of making a personal agent for Microsoft 365 Copilot. In fact, it is integrated with the native UI of Microsoft 365 Copilot Chat and Microsoft 365 Copilot. You can start from a set of Microsoft provided templates, or you can start from scratch. You can define the agent simply describing in natural language what you are looking for and relying on Copilot Studio Lite capability to understand natural language. It will create an agent for you, based on your prompt. Or you can configure the agent using a configuration page. By default, the agent is for personal use only. However, you can share it with specific people in your organization, or even with all the users in your organization, if needed.
 
-![The Copilot Studio agent builder user interface with a dialog asking the user to choose an agent template or to describe with natural language the purpose of the agent to create.](../../../assets/images/make-global-intro/copilot-agent-builder-01.png)
+![The Copilot Studio Lite user interface with a dialog asking the user to choose an agent template or to describe with natural language the purpose of the agent to create.](../../../assets/images/make-global-intro/copilot-agent-builder-01.png)
 
-An agent built with Copilot Studio agent builder can use knowledge bases like:
+An agent built with Copilot Studio Lite can use knowledge bases like:
 
 - Generic web content
 - Content of documents stored in SharePoint Online
@@ -19,7 +19,7 @@ Depending on the target knowledge base and on your users' license, your organiza
 
 ---8<--- "mab-labs-toc.md"
 
-<a href="./01-first-agent">Start here</a> with Lab MAB1, where you'll make your first agent with Copilot Studio agent builder.
+<a href="./01-first-agent">Start here</a> with Lab MAB1, where you'll make your first agent with Copilot Studio Lite.
 <cc-next />
 
 <img src="https://m365-visitor-stats.azurewebsites.net/copilot-camp/make/agent-builder/index" />

diff --git a/docs/ja/pages/make/agent-builder/index.md b/docs/ja/pages/make/agent-builder/index.md
@@ -6,7 +6,7 @@ search:
 
 これは、Microsoft 365 Copilot 向けのパーソナル エージェントを作成する最も簡単な方法です。実際には、Microsoft 365 Copilot Chat と Microsoft 365 Copilot のネイティブ UI に統合されています。Microsoft が提供するテンプレート セットから開始することも、ゼロから作成を始めることもできます。エージェントの目的を自然言語で説明するだけで、Copilot Studio エージェント ビルダーの自然言語理解機能によりエージェントを定義できます。ビルダーは入力したプロンプトに基づいてエージェントを作成します。また、設定ページを使用してエージェントを構成することも可能です。既定では、エージェントは個人用に限定されていますが、必要に応じて組織内の特定のメンバー、あるいはすべての ユーザー と共有することもできます。
 
-![The Copilot Studio agent builder user interface with a dialog asking the user to choose an agent template or to describe with natural language the purpose of the agent to create.](../../../assets/images/make-global-intro/copilot-agent-builder-01.png)
+![The Copilot Studio Lite user interface with a dialog asking the user to choose an agent template or to describe with natural language the purpose of the agent to create.](../../../assets/images/make-global-intro/copilot-agent-builder-01.png)
 
 Copilot Studio エージェント ビルダーで構築したエージェントは、次のようなナレッジ ベースを使用できます。
 

diff --git a/docs/pages/internal/testGuide.md b/docs/pages/internal/testGuide.md
@@ -17,7 +17,7 @@ The following labs are in need of testing. Please send questions and issues to t
 
     In this new path, the student finds content about:
 
-     - Copilot Studio agent builder
+     - Copilot Studio Lite
      - Microsoft Copilot Studio
      - SharePoint agents
 
@@ -25,13 +25,13 @@ The following labs are in need of testing. Please send questions and issues to t
 
       1. Just read the initial introductions for each branch, starting from [here](https://microsoft.github.io/copilot-camp/pages/make/).
 
-!!! note "Lab MAB1 - Agent builder"
+!!! note "Lab MAB1 - Copilot Studio Lite"
     Owner: Paolo Pialorsi
 
     In this lab, the student:
 
      - learns what is a declarative agent for Microsoft 365 Copilot
-     - makes a declarative agent using Copilot Studio agent builder
+     - makes a declarative agent using Copilot Studio Lite
      - customises the agent to create a game using specific instructions
      - configures the agent to rely on a set of documents stored in SharePoint Online
      - enables the agent to generate images

diff --git a/docs/pages/make/index.md b/docs/pages/make/index.md
@@ -1,7 +1,7 @@
 
 # Make agents for Microsoft 365 Copilot
 
-Welcome to Copilot Developer Camp's Maker Path! In this lab, you will design customised assistants to improve the overall experience of using Microsoft 365 Copilot. The process will begin with the creation of a basic agent using either the Copilot Studio agent builder, or the SharePoint agent capability in SharePoint Online, or Copilot Studio.
+Welcome to Copilot Developer Camp's Maker Path! In this lab, you will design customised assistants to improve the overall experience of using Microsoft 365 Copilot. The process will begin with the creation of a basic agent using either the Copilot Studio Lite, or the SharePoint agent capability in SharePoint Online, or Copilot Studio.
 
 In order to better understand the available options and when you should use what, here you can find a helpful table with a brief explanation of each of the options.
 

diff --git a/docs/includes/ja/mab-labs-toc.md b/docs/includes/ja/mab-labs-toc.md
@@ -1,7 +1,7 @@
 <div class="cc-lab-toc mab-path">
   <img src="/copilot-camp/assets/images/path-icons/MAB-path-heading.png"></img>
   <div>
-    <p>Copilot Studio agent builder で宣言型エージェントを構築したい場合は、次のラボを実施してください。</p>
+    <p>Copilot Studio Lite で宣言型エージェントを構築したい場合は、次のラボを実施してください。</p>
     <ul>
       <li><a href="/copilot-camp/ja/pages/make/agent-builder/01-first-agent/">MAB1 - 最初のエージェントを構築する</a></li>
     </ul>

diff --git a/docs/pages/make/sharepoint-agents/index.md b/docs/pages/make/sharepoint-agents/index.md
@@ -23,7 +23,7 @@ If you are assigned with a Microsoft 365 Copilot license, or a Copilot Studio ca
 
 <!-- ---8<--- "msa-labs-toc.md" -->
 
-<!-- ## <a href="./01-first-agent">Start here</a> with Lab MSA1, where you'll make your first agent with Copilot Studio agent builder. -->
+<!-- ## <a href="./01-first-agent">Start here</a> with Lab MSA1, where you'll make your first agent with Copilot Studio Lite. -->
 
 ## <a href="./01-first-agent">Start here</a> with Lab MSA1, where you'll create your first SharePoint agent.
 <cc-next url="./01-first-agent" />
